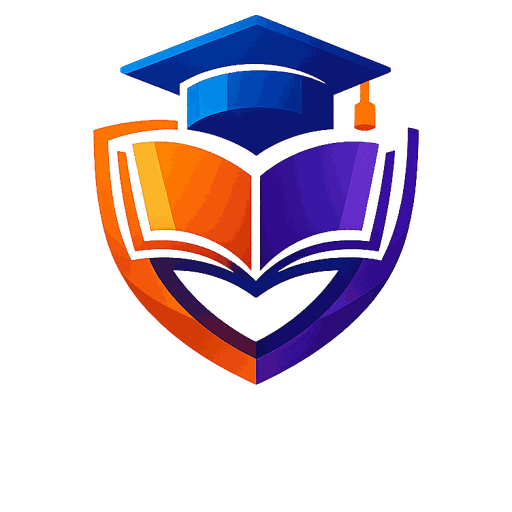
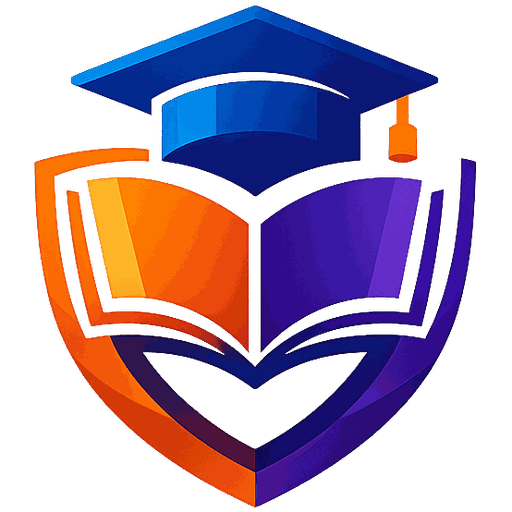
style: let the crest fill its plate
Two things were holding it small, and the padding was the lesser of them.

The tile's inset drops from 12% to 5% — enough to keep the artwork off the
rounded corners, not enough to leave it marooned in the middle.

The bigger cause was the asset. It was cropped to the source file's alpha
bounding box, which included an outer glow so faint it disappears the moment the
file is quantised — so a quarter of the tile was dead space, 125px of it below
the shield. Re-cut to the visible artwork: content now fills 87% of the square's
width and 99% of its height, against 64% and 73% before. Cropped only, and the
glow inside the crop is kept.

Verified by re-running the seed rather than only patching the stored file: the
32KB asset installs at the key the school record points at, and the crest
renders at 89% of the tile with the shield reaching top and bottom.

diff --git a/apps/web/src/components/SchoolCrest.tsx b/apps/web/src/components/SchoolCrest.tsx
@@ -29,7 +29,9 @@ export default function SchoolCrest({
   // Scaled from `size` rather than fixed: this renders at 34px in the top bar and 76px in the
   // sidebar, and a radius that looks right at one is wrong at the other.
   const radius = Math.round(size * 0.22);
-  const pad = Math.round(size * 0.12);
+  // Just enough to keep the artwork off the rounded corners — the crest should read as filling
+  // the tile, not sitting in the middle of one.
+  const pad = Math.max(1, Math.round(size * 0.05));
 
   if (hasLogo && !failed) {
     return (